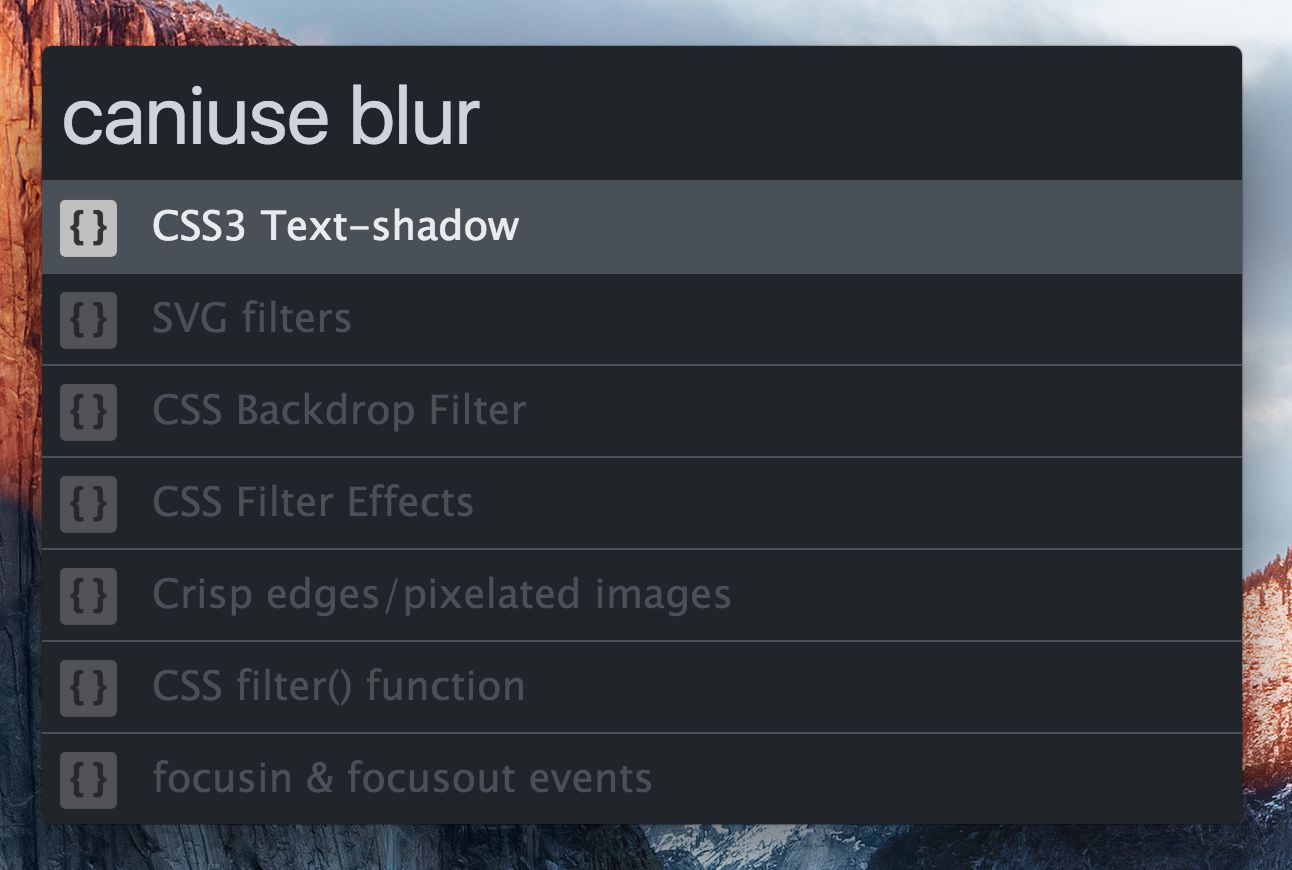
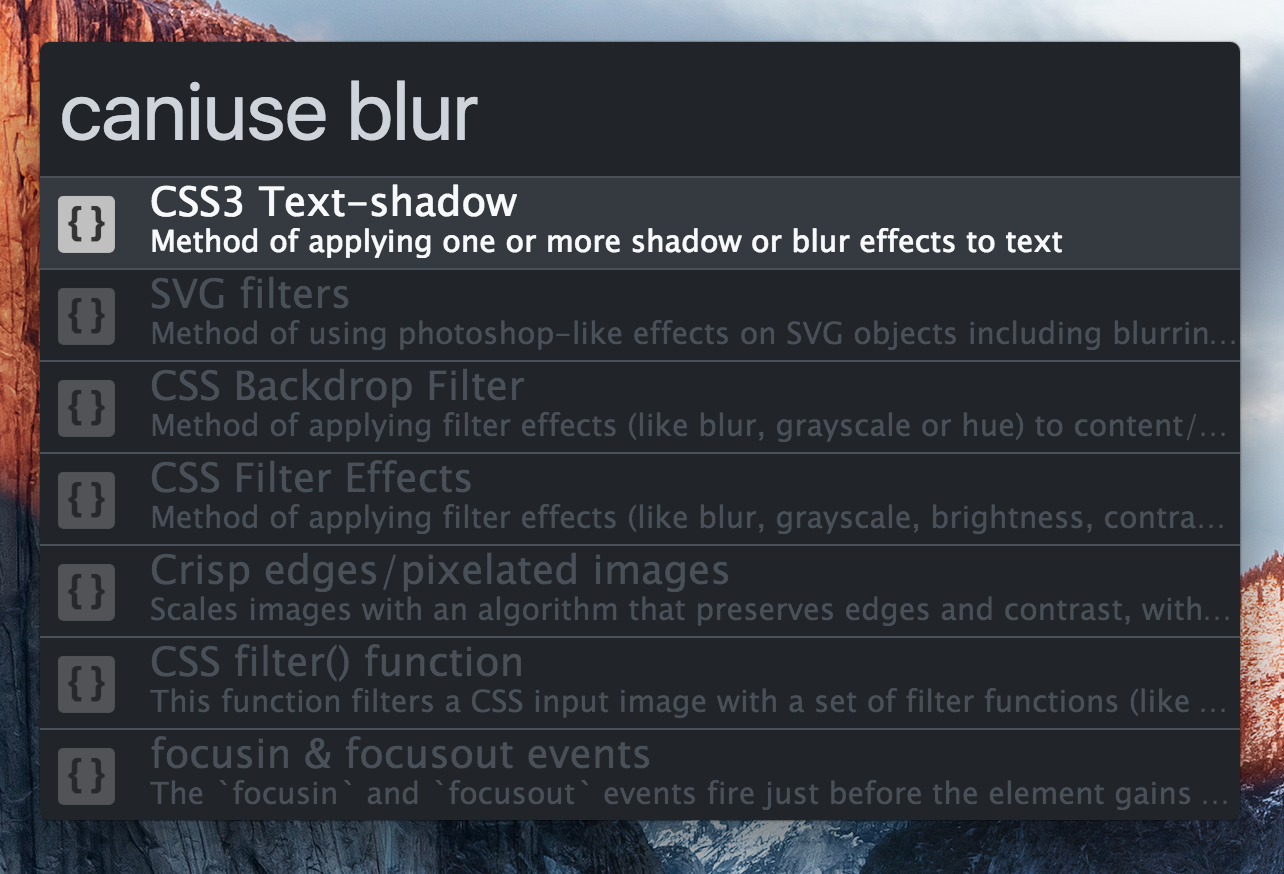
Show feature description in subtitles

diff --git a/src/caniuse.js b/src/caniuse.js
@@ -10,6 +10,7 @@ module.exports.query = (query) => {
       return features.map(feature => ({
         value: searchUrl(feature.slug),
         title: feature.title,
+        subtitle: feature.description,
       }))
     })
 }
